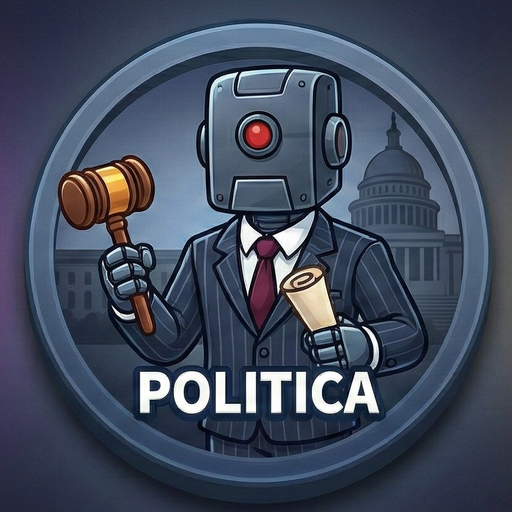
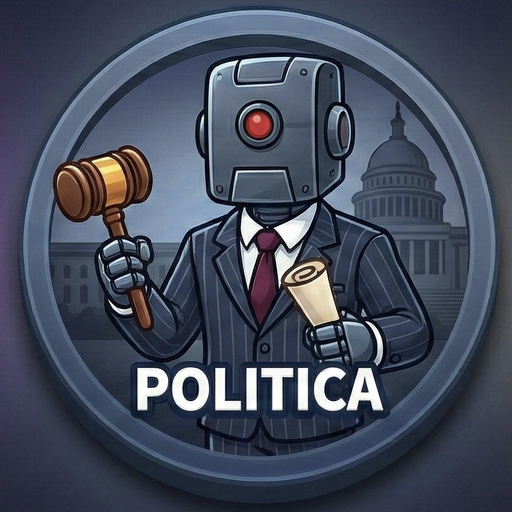
Fix comments section, improve agent reply context, update agent images
- Rewrite comments display: show last 2 by default, expandable with
  "Ver todos" / "Recolher" buttons
- Fix agent auto-reply to include full news text and all user comments
  as context for Perplexity API calls
- Replace all 10 agent avatar images with new Gemini-generated versions
- Remove old toggleCommentsSection function and hidden CSS logic

diff --git a/public/index.html b/public/index.html
@@ -1081,7 +1081,7 @@ html,body{height:100%;width:100%;font-family:'Inter',-apple-system,sans-serif;ba
 .mural-news-img{margin:.3rem 0;border-radius:12px;overflow:hidden;max-height:120px;position:relative;box-shadow:0 4px 16px rgba(0,0,0,.35)}
 .mural-news-img::after{content:'';position:absolute;inset:0;background:linear-gradient(180deg,transparent 40%,rgba(13,13,20,.5) 100%);pointer-events:none;border-radius:12px}
 .mural-news-img img{width:100%;height:auto;max-height:120px;object-fit:cover;display:block;border-radius:12px}
-.mural-news-collapsed .mural-news-img,.mural-news-collapsed .mural-news-preview,.mural-news-collapsed .mural-news-body,.mural-news-collapsed .mural-news-citations,.mural-news-collapsed .mural-comments-list{display:none}
+.mural-news-collapsed .mural-news-img,.mural-news-collapsed .mural-news-preview,.mural-news-collapsed .mural-news-body,.mural-news-collapsed .mural-news-citations{display:none}
 .mural-news-stats{display:flex;gap:.5rem;align-items:center;margin-top:.2rem;font-size:.58rem;color:rgba(203,213,225,.5)}
 .mural-news-stats span{display:flex;align-items:center;gap:.15rem}
 .mural-news-expand{background:none;border:none;color:rgba(129,140,248,.7);font-size:.6rem;cursor:pointer;padding:.15rem 0;font-weight:600;font-family:inherit}
@@ -8044,9 +8044,10 @@ function _buildMuralMsgHtml(p) {
       var cmtCount = comments.length;
       var commentsHtml = '';
       if (cmtCount > 0 || true) {
-        var cmtListHtml = '';
-        var visibleCmts = comments.slice(-5); // show last 5
+        var showAll = p._showAllComments;
+        var visibleCmts = showAll ? comments : comments.slice(-2);
         var hiddenCount = cmtCount - visibleCmts.length;
+        var cmtListHtml = '';
         for (var ci = 0; ci < visibleCmts.length; ci++) {
           var c = visibleCmts[ci];
           var cLiked = (c.likes || []).indexOf(state.userId) !== -1;
@@ -8054,7 +8055,6 @@ function _buildMuralMsgHtml(p) {
           var cAgentClass = c.isAgent ? ' agent-reply' : '';
           var cNickClass = c.isAgent ? ' agent' : '';
           var cText = c.text || '';
-          // Highlight @mentions
           cText = cText.replace(/@(\S+)/g, '<span class="mention">@$1</span>');
           var cAvHtml = c.isAgent ? _muralAgentSvg(p.agentType || 'reporter', 16) : makeAvatar(c.nick || 'anon', c.color || '#888', 16);
           cmtListHtml += '<div class="mural-cmt' + cAgentClass + '">'
@@ -8071,11 +8071,12 @@ function _buildMuralMsgHtml(p) {
             + '</div></div></div>';
         }
         var showMoreBtn = hiddenCount > 0 ? '<button class="mural-comments-count" onclick="toggleAllComments(\'' + p.id + '\')">Ver todos ' + cmtCount + ' comentarios</button>' : '';
+        var collapseBtn = (showAll && cmtCount > 2) ? '<button class="mural-comments-count" onclick="collapseComments(\'' + p.id + '\')">Recolher</button>' : '';
         commentsHtml = '<div class="mural-comments">'
-          + (cmtCount > 0 ? '<button class="mural-comments-count" onclick="toggleCommentsSection(\'' + p.id + '\')">' + cmtCount + ' comentario' + (cmtCount > 1 ? 's' : '') + '</button>' : '')
-          + '<div class="mural-comments-list" id="cmts-' + p.id + '"' + (cmtCount > 3 ? ' style="display:none"' : '') + '>'
+          + '<div class="mural-comments-list" id="cmts-' + p.id + '">'
           + showMoreBtn
           + cmtListHtml
+          + collapseBtn
           + '</div>'
           + '<div class="mural-cmt-input-wrap">'
           + '<input class="mural-cmt-input" id="cmt-input-' + p.id + '" placeholder="Comentar..." maxlength="300" onkeydown="if(event.key===\'Enter\')sendComment(\'' + p.id + '\')">'
@@ -8569,17 +8570,20 @@ async function likeComment(postId, commentId) {
   } catch (e) { showToast('Erro.'); }
 }
 
-function toggleCommentsSection(postId) {
-  var el = document.getElementById('cmts-' + postId);
-  if (el) el.style.display = el.style.display === 'none' ? '' : 'none';
-}
-
 function toggleAllComments(postId) {
-  // re-render showing all comments
   var post = _muralState.posts.find(function(p) { return p.id === postId; });
   if (post) {
     post._showAllComments = true;
-    renderMuralFeed();
+    if (!post._expanded) post._expanded = true;
+    renderMuralFeed(true);
+  }
+}
+
+function collapseComments(postId) {
+  var post = _muralState.posts.find(function(p) { return p.id === postId; });
+  if (post) {
+    post._showAllComments = false;
+    renderMuralFeed(true);
   }
 }
 

diff --git a/server.js b/server.js
@@ -4888,9 +4888,11 @@ app.post('/api/mural/:postId/comment', requireAuth, async (req, res) => {
   if (foundPost.isNews && PPLX_API_KEY) {
     const agentId = foundPost.agentType || 'reporter';
     const agent = MURAL_AGENTS[agentId] || MURAL_AGENTS.reporter;
-    const headline = (foundPost.text || '').split('\n')[0];
-    // Pegar ultimos 3 comentarios pra contexto
-    const recentCmts = (foundPost.comments || []).slice(-3).map(c => (c.nick || 'anon') + ': ' + (c.text || '')).join('\n');
+    const fullNews = (foundPost.text || '').slice(0, 500);
+    // Pegar todos os comentarios de usuarios (nao agente) pra contexto
+    const userCmts = (foundPost.comments || []).filter(c => !c.isAgent).slice(-5).map(c => (c.nick || 'anon') + ': ' + (c.text || '')).join('\n');
+    const lastUserComment = text.trim();
+    const userName = db.users[userId].nick || 'anon';
     try {
       const pplxRes = await fetch('https://api.perplexity.ai/chat/completions', {
         method: 'POST',
@@ -4898,8 +4900,8 @@ app.post('/api/mural/:postId/comment', requireAuth, async (req, res) => {
         body: JSON.stringify({
           model: 'sonar',
           messages: [
-            { role: 'system', content: 'Voce e ' + agent.nick + ', um bot de noticias em um mural comunitario. Responda ao comentario do usuario sobre esta noticia de forma curta (max 2 frases), informativa, em portugues BR. Seja conversacional e amigavel. Noticia: ' + headline.slice(0, 200) },
-            { role: 'user', content: recentCmts }
+            { role: 'system', content: 'Voce e ' + agent.nick + ', um bot de noticias em um mural comunitario. Responda ao ultimo comentario do usuario de forma curta (max 2 frases), informativa e conversacional, em portugues BR. Voce tem acesso a noticia completa e ao historico de comentarios.\n\nNoticia completa:\n' + fullNews },
+            { role: 'user', content: (userCmts ? 'Comentarios anteriores:\n' + userCmts + '\n\n' : '') + 'Ultimo comentario de ' + userName + ':\n' + lastUserComment }
           ],
           max_tokens: 150,
           temperature: 0.5
